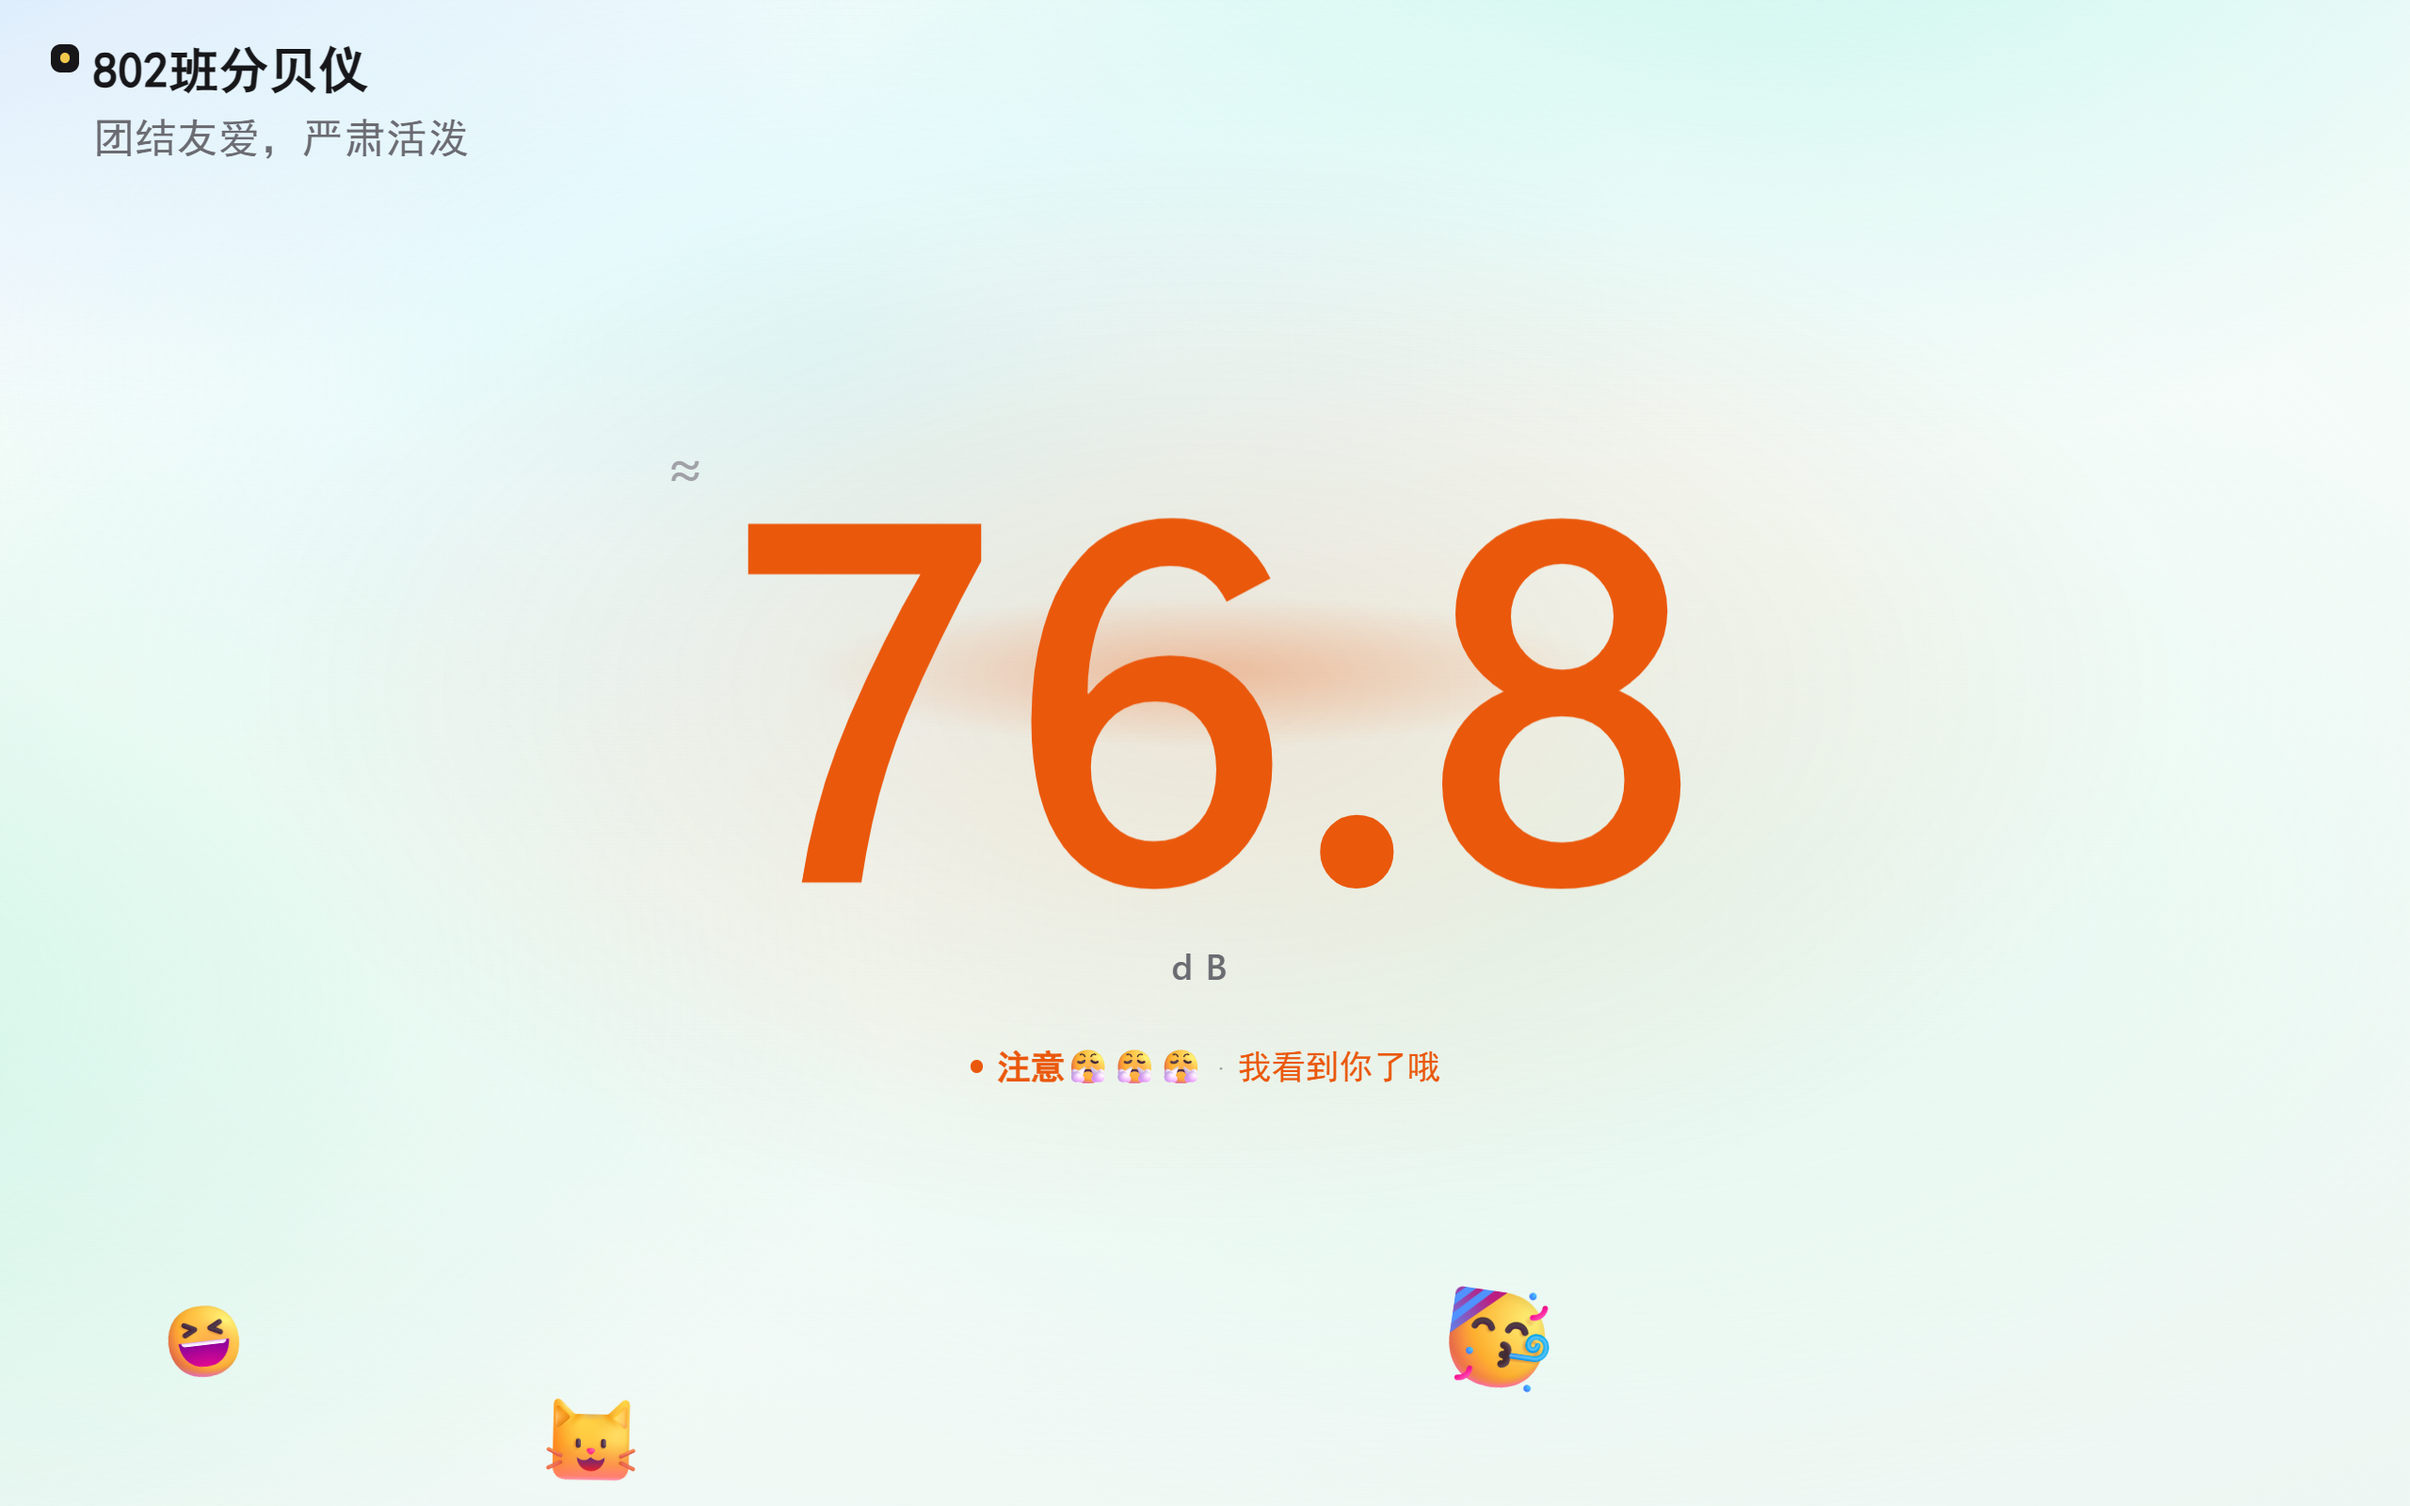
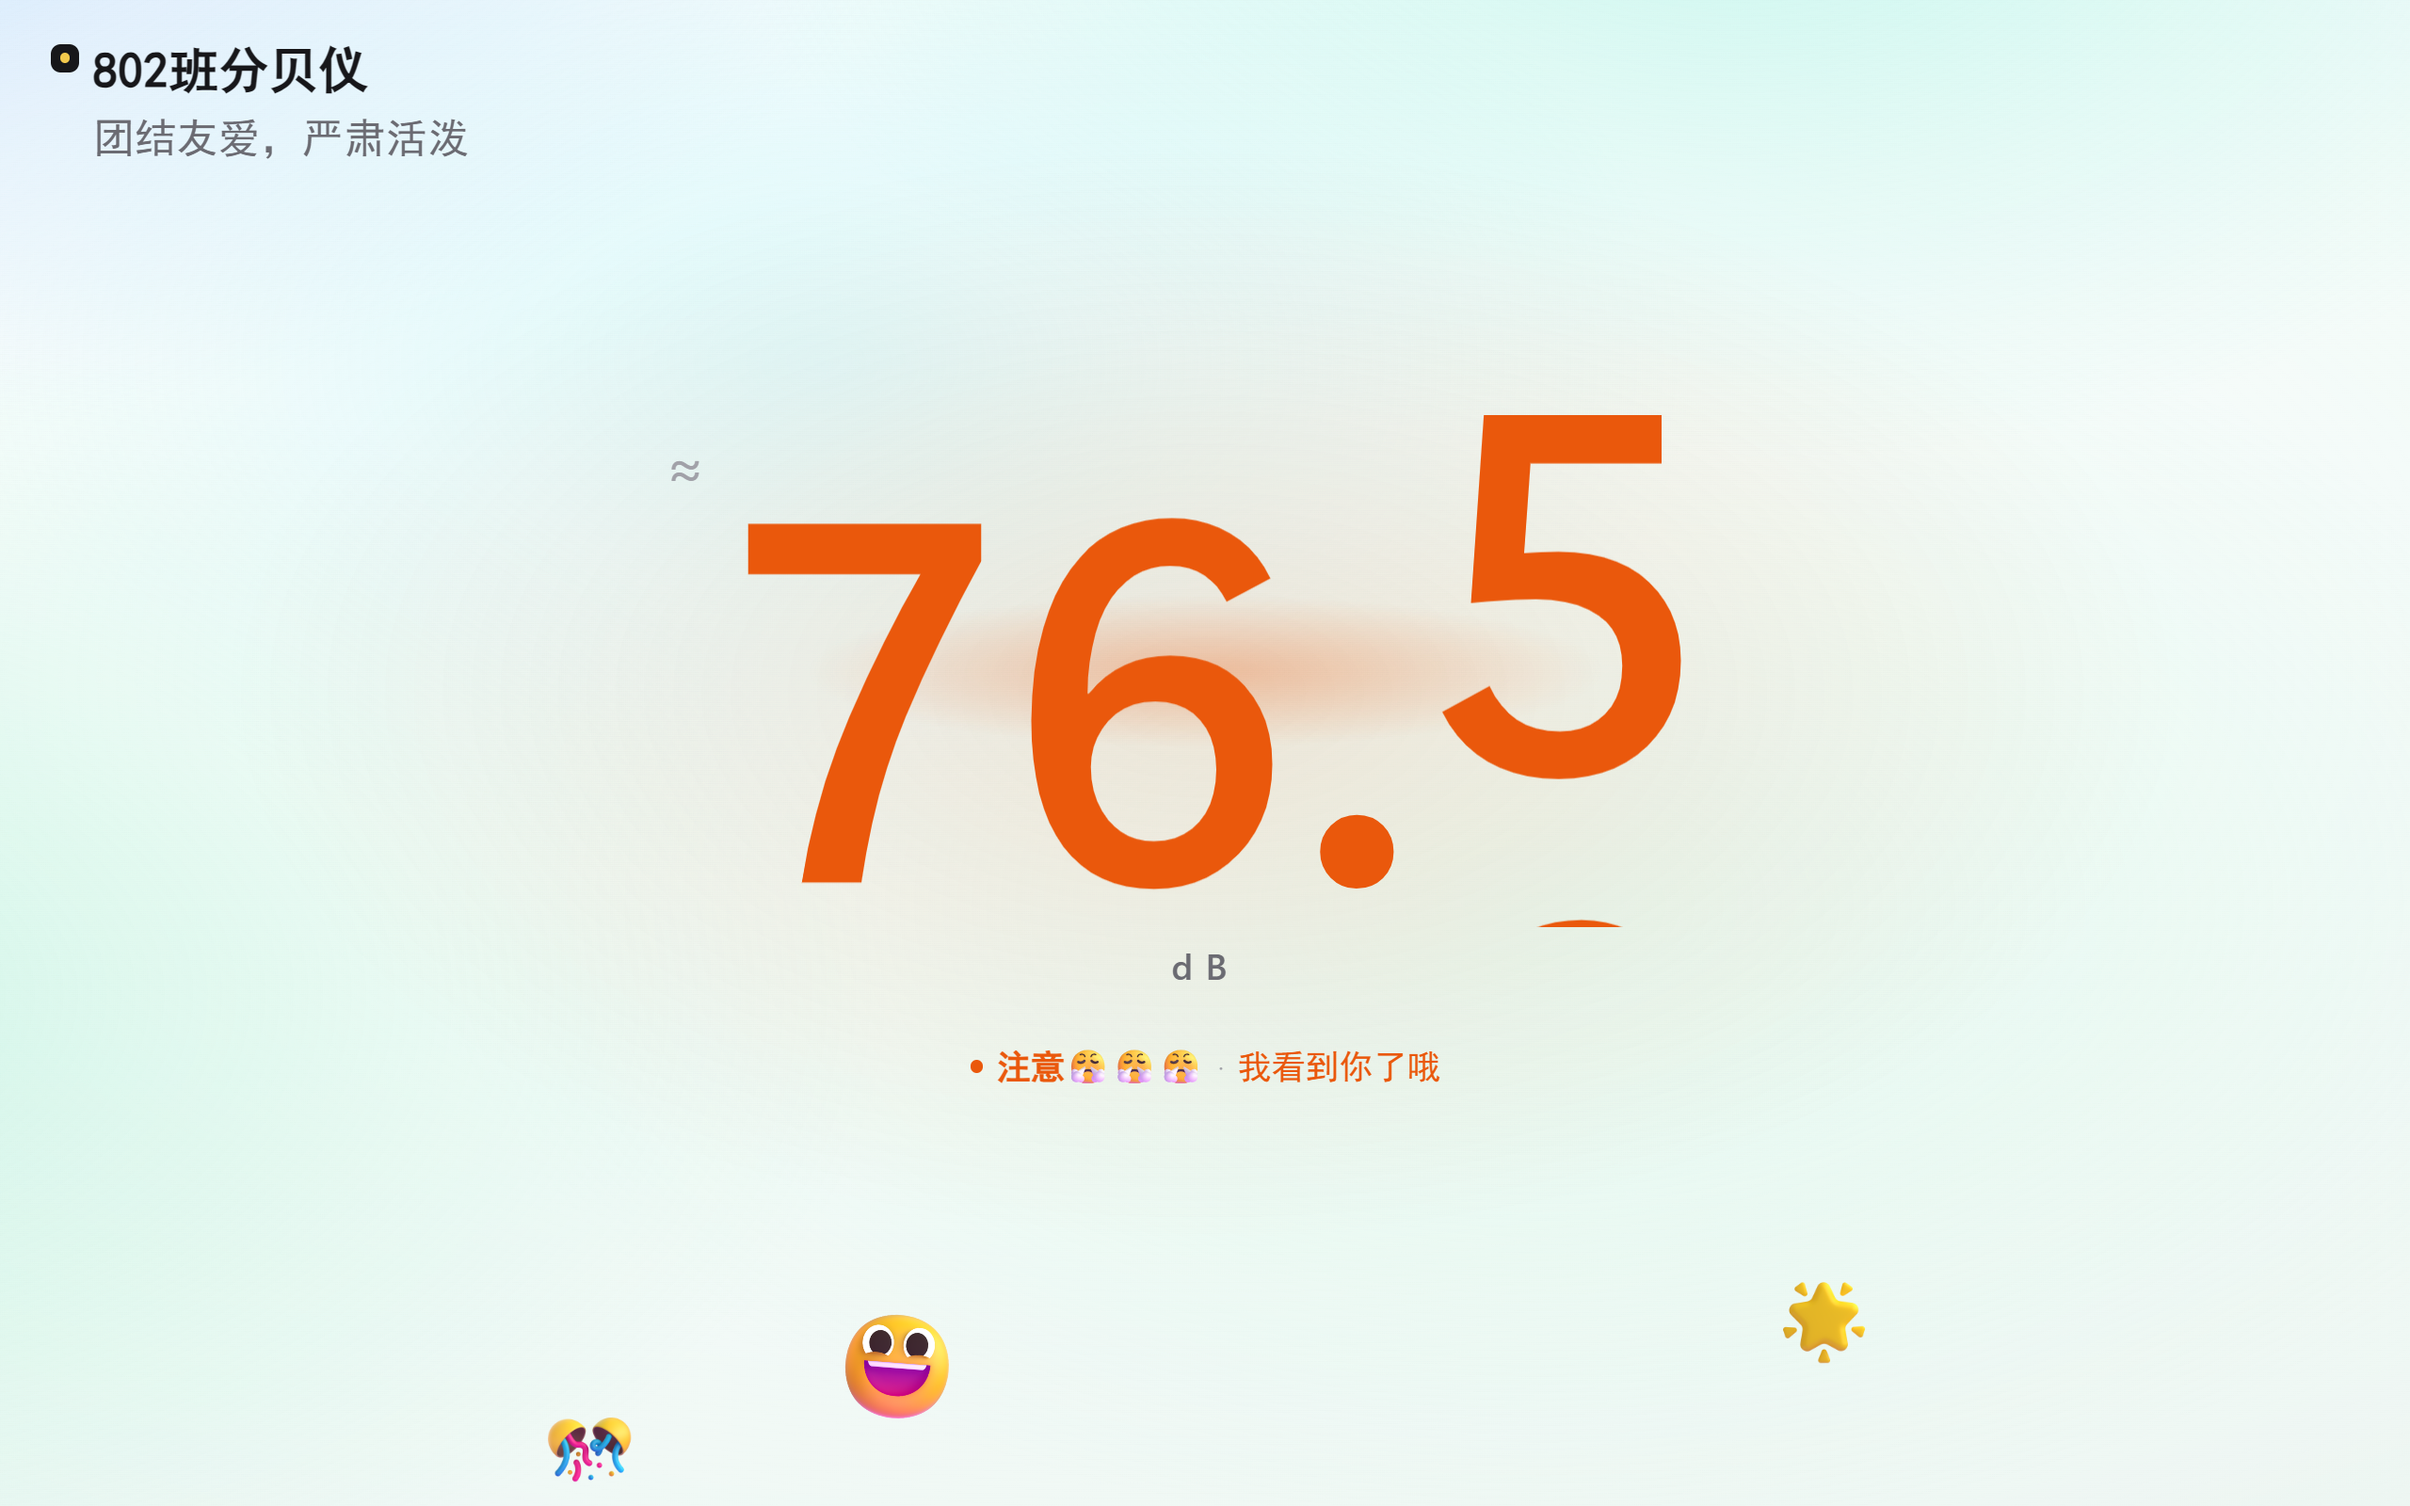
Emoji: curate 40 Fluent 3D reward emoji from local repo

diff --git a/src/lib/emojiAssets.ts b/src/lib/emojiAssets.ts
@@ -20,27 +20,48 @@ export function emojiImage(char: string): string | undefined {
   return byKey[keyFor(char)]
 }
 
+/** Curated Fluent Emoji 3D set used for the fullscreen reward row. */
 export const EMOJI_CHARS = [
   '😀',
+  '😃',
   '😄',
   '😁',
+  '😆',
   '😊',
-  '🥳',
-  '🤩',
+  '😇',
+  '🙂',
+  '😉',
   '😍',
+  '🤩',
   '😎',
   '🤗',
-  '😆',
+  '😂',
+  '🥳',
+  '🤝',
+  '👍',
+  '👏',
+  '🙌',
+  '💪',
+  '✌',
+  '👌',
   '🎉',
+  '🎊',
+  '🎈',
+  '🎁',
+  '🏆',
+  '🥇',
+  '👑',
+  '🚀',
+  '⭐',
   '🌟',
-  '🐱',
-  '🐶',
+  '✨',
   '🌈',
   '☀',
-  '✨',
-  '🎈',
-  '🏆',
-  '🚀',
+  '🌻',
+  '🌸',
+  '🍀',
+  '🐱',
+  '🐶',
 ]
 
 export function randomEmoji(): { char: string; src: string | undefined } {

diff --git a/README.md b/README.md
@@ -28,8 +28,8 @@ Windows 10 1809+ / Windows 11 · Tauri 2 + React 19 + TypeScript · 当前版本
   且名称、提示文字的颜色会跟随该级别颜色（与分贝数同色）
 - **全屏模式**：整屏巨大读数 + 级别配色，适合演讲 / 课堂 / 朗读打卡投屏；F11 进入、ESC 退出，
   鼠标静止 3 秒自动隐藏顶部与底部信息；左上角标题 / 副标题可改文字、字体、字号、颜色
-- **表情互动**：全屏达标后底部随机蹦出 Win11 表情（弹入 + 轻微弹跳），可配置每个模式的触发分贝、
-  持续时长与初始数量，最多 80 个
+- **表情互动**：全屏达标后底部随机蹦出 Fluent Emoji 3D 表情（弹入 + 轻微弹跳），
+  内置 40 个精选奖励表情（笑脸 / 手势 / 庆祝 / 动物等），可配置每个模式的触发分贝、持续时长与初始数量，最多 80 个
 - **托盘常驻**：关闭主窗进托盘，托盘菜单可快速切主窗 / 迷你窗 / 退出
 - **校准**：偏移量滑杆 + 「安静环境校准」+「朗读校准」两种一键校准
 - **日志中心**：触发事件 + 每秒采样，应用内按日期/类型查看、搜索、导出 CSV

diff --git a/docs/PROGRESS.md b/docs/PROGRESS.md
@@ -260,3 +260,11 @@ $env:VITE_DBOUND_SIM='72'; $env:VITE_DBOUND_SIM_MODE='forward'; pnpm tauri build
   通过 `<EmojiText>` 把界面文字里的 emoji 渲染成内置图片，Win10/Win11 一致；
   输入框内编辑时仍使用系统 emoji 字体（原生 input 限制），保存后显示为 Fluent 图片
 - 验收：`scripts/verify-first-run.ps1`（安装 → 首次激活 → 重启免激活 → 删除标记后重新要求激活）
+
+### 奖励表情精选（40 个 Fluent 3D）
+
+- 从本地 `fluentui-emoji-main` 仓库按 glyph 元数据精确匹配，挑选 40 个适合课堂鼓励的表情：
+  笑脸（😀😃😄😁😆😊😇🙂😉😍🤩😎🤗😂🥳）、手势（🤝👍👏🙌💪✌👌）、
+  庆祝（🎉🎊🎈🎁🏆🥇👑🚀⭐🌟✨）、自然与动物（🌈☀🌻🌸🍀🐱🐶）
+- 奖励池改用这 40 个高分辨率 3D PNG（`src/assets/emoji/`，约 1.3MB）；
+  文字 emoji 的完整 Fluent 图片集保持不变，level 名称里的任意 emoji 仍与 Win10/Win11 一致
